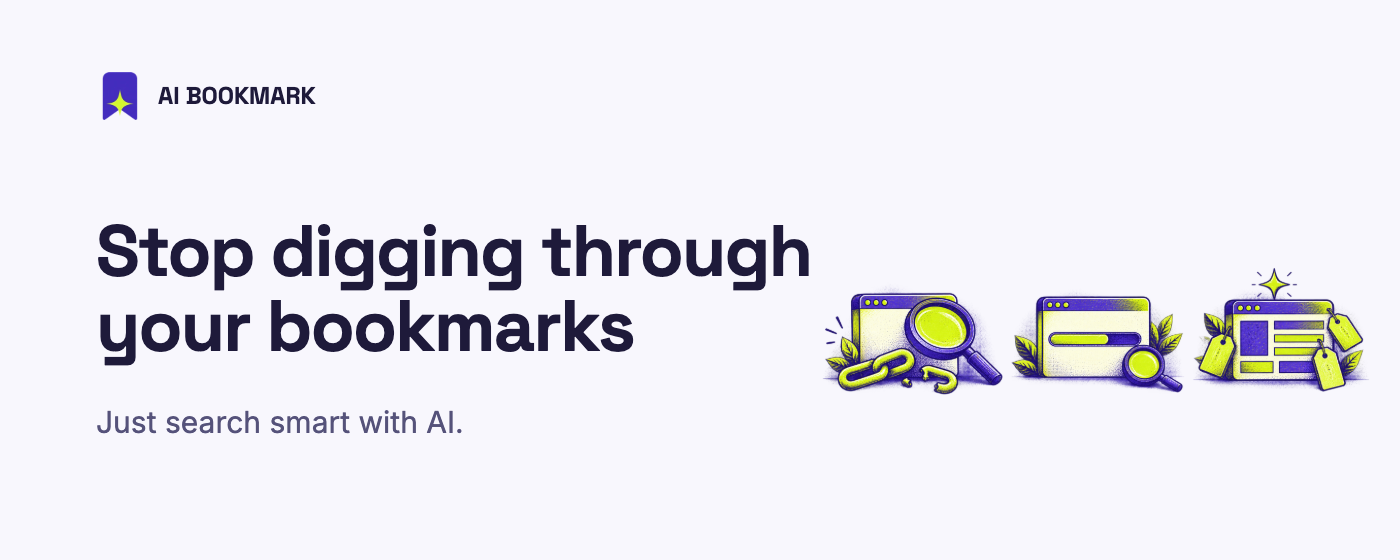
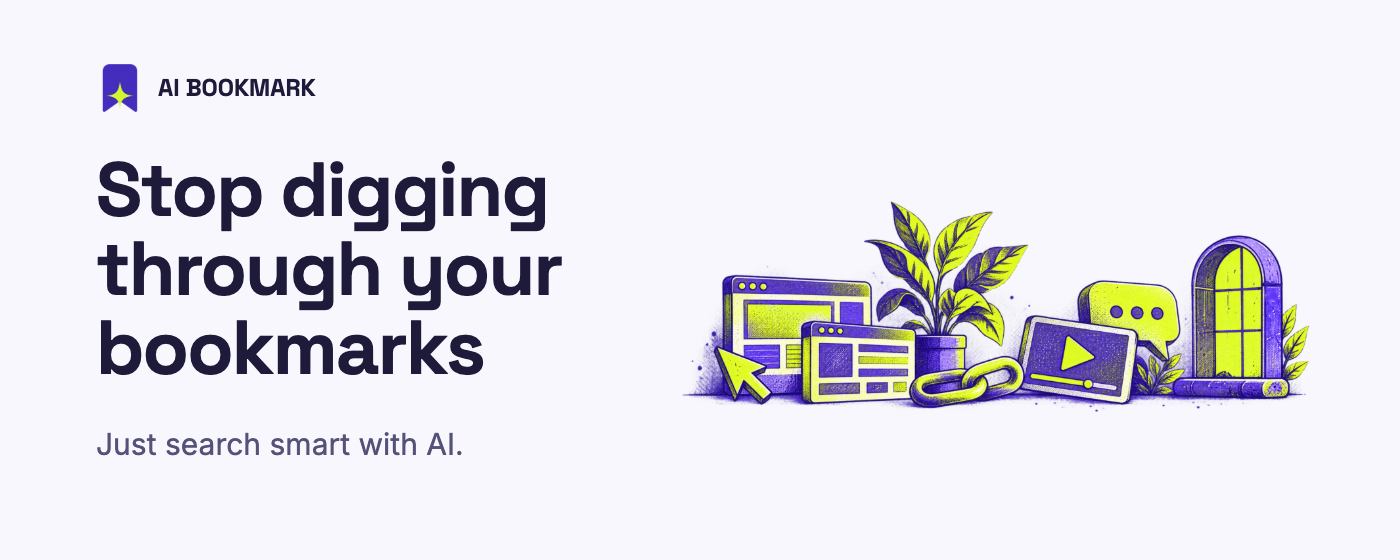
README rewrite in simple English; refreshed marquee and small promo images

Changed region(s): [[0.0614, 0.2732, 0.9829, 0.7286], [0.0614, 0.7286, 0.3379, 0.8196], [0.0614, 0.0911, 0.2457, 0.2125]]

diff --git a/README.md b/README.md
@@ -1,103 +1,125 @@
+<p align="center">
+  <img src="store/promo-marquee-1400x560.png" alt="AI Bookmark: stop digging through your bookmarks. Just search smart with AI." width="100%">
+</p>
+
 # AI Bookmark
 
-Stop digging through your bookmarks. Just search smart with AI. AI Bookmark uses Gemini to read the pages you save, so you can search by what a page is about, not only its title.
+**Stop digging through your bookmarks. Just search smart with AI.**
 
-It works in Chrome and in other Chromium browsers, for example Brave. It needs version 116 or later.
+You save many pages. After some time, you cannot find them. You nest your folders. You sort some of them, not all. You remember what a page was about. You do not remember its title or its folder.
 
-## What it does
+AI Bookmark is a Chrome extension for this problem. Gemini reads the pages you save. Then you search by what a page is about. Type "design inspiration". The extension shows the sites that fit. It does this when those words are not in the title.
 
-- **Search by meaning.** Type a question or a few words. The extension compares the meaning, not only the exact words.
-- **Index with Gemini.** Gemini reads each bookmark. It adds tags, a short summary and a collection.
-- **Collections.** The extension groups your bookmarks, for example Design, AI Tools and Development. A bookmark that fits no group goes to Others.
-- **Link details.** Open a bookmark to see its summary, collection and tags. Tap a row to change it. If Gemini cannot read a page, the summary says so. It does not guess.
-- **Side panel.** The panel stays open when you change tabs.
-- **Local first.** Your index stays on your device. Only the Gemini steps use the network.
+<p align="center">
+  <img src="store/screenshot-3-search.png" alt="Searching for design inspiration" width="70%">
+</p>
 
 ## Install
 
-You do not need a build step.
+The extension is not in the Chrome Web Store yet. Until it is, install it by hand. You do not need a build step.
 
 1. Download or clone this repository.
-2. Open `chrome://extensions`. In Brave, open `brave://extensions`.
-3. Turn on **Developer mode**.
-4. Click **Load unpacked**.
-5. Select the repository folder.
-6. Click the puzzle-piece icon. Pin **AI Bookmark**.
+2. Open the extensions page of your browser (`chrome://extensions`).
+3. Set **Developer mode** to on.
+4. Click **Load unpacked**. Select the repository folder.
+5. Open the puzzle-piece menu. Pin **AI Bookmark**.
+
+You need a Chromium browser, version 116 or later.
 
 ## First run
 
-1. Click the extension icon. The side panel opens.
+1. Click the icon. The side panel opens.
 2. Search for a word. Keyword search works at once, with no key.
-3. For meaning search, get a free key from [Google AI Studio](https://aistudio.google.com/apikey).
+3. For search by meaning, create a free key in [Google AI Studio](https://aistudio.google.com/apikey).
 4. Paste the key into the card on the Home screen. Click **Save**. Indexing starts at once.
-5. Watch the progress on the Home card. Open Settings for the same view.
+5. Read the progress on the Home card or in Settings. You can close the panel. Indexing continues in the background.
 
-You can close the panel while the extension indexes. The work continues in the background.
+<p align="center">
+  <img src="store/screenshot-1-add-a-key.png" alt="Adding a Gemini key" width="49%">
+  <img src="store/screenshot-2-indexing.png" alt="Indexing in the background" width="49%">
+</p>
 
 ## Use
 
-| Task | How |
+| Task | Action |
 | --- | --- |
-| Open the panel | Click the icon. Or press `Ctrl+Shift+K` (`Cmd+Shift+K` on Mac). |
+| Open the panel | Click the icon. Or press `Ctrl+Shift+K` (`Cmd+Shift+K` on a Mac). |
 | Search | Type in the search box. Press `Enter`. |
-| Move in results | Press the up or down arrow. Press `Enter` to open a link. |
-| Copy a link | Select a result. Press `Cmd+C` or `Ctrl+C`. |
-| See your collections | Click the layers icon. |
-| Index new bookmarks | The extension does it by itself. If you turn that off in Settings, Settings shows how many new bookmarks it found. Click **Sync now**. |
-| Export your bookmarks | Open Settings. Click **Export bookmarks**. The file is an HTML bookmarks file. |
-| Change a summary, collection or tags | Open the bookmark. Tap the row you want to change. |
-| Delete a bookmark | Open its details. Click the bin icon. Click **Undo** within seven seconds to restore it. |
+| Move in the results | Press the up or down arrow. Press `Enter` to open a link. |
+| Copy a link | Select a result. Press `Ctrl+C` or `Cmd+C`. |
+| Browse by collection | Click the layers icon. |
+| Change a summary, a collection or the tags | Open a bookmark. Tap the row. |
+| Delete a bookmark | Open it. Click the bin icon. Click **Undo** within seven seconds to restore it. |
+| Index new bookmarks | The extension does this by itself. You can switch it off in Settings. Then Settings shows how many new bookmarks it found. Click **Sync now**. |
+| Export | Open Settings. Click **Export bookmarks**. |
+| Clear the index | Open Settings. Click **Clear the index**. Your bookmarks stay. |
+
+<p align="center">
+  <img src="store/screenshot-4-collections.png" alt="Collections that the extension builds" width="49%">
+  <img src="store/screenshot-5-details.png" alt="A bookmark with its summary, collection and tags" width="49%">
+</p>
+
+## How it works
+
+1. **Index.** Gemini reads each page. It writes a summary, tags and a collection. The extension then makes a numeric search index from the title, the tags and the summary.
+2. **Search.** The extension first matches your query against the data on your device. A result shows at once. In parallel, it compares the meaning of your query with the index. Then it updates the list.
+3. **Pages it cannot read.** Some pages are web apps with no text, or they need a login. For these pages the extension stores no summary. It does not guess.
+4. **Local data.** The index stays in your browser. Without a key, the extension sends nothing. Keyword search and the automatic collections still work.
 
 ## Privacy
 
-The extension has no server of its own. It has no analytics.
+The extension has no server, no analytics and no advertising. The index and the API key stay in your browser.
 
 When you use Gemini, the extension sends this data to Google:
 
-- the title, address and folder name of each bookmark
-- your search text, including what you type before you press Enter
-- the tags and summary Gemini made, to build the search index
+- The title, the address and the folder of each bookmark. Gemini also reads the page.
+- The tags and the summary that Gemini wrote. They build the search index.
+- Your search text. This includes the text you type before you press `Enter`.
 
-Gemini can also read the pages at your bookmark addresses.
-
-Your API key stays in your browser. The extension sends it only to Google. Read [PRIVACY.md](PRIVACY.md) for the full policy.
+You can switch off automatic indexing. Then the extension sends no new bookmark until you click **Sync now**. Read [PRIVACY.md](PRIVACY.md) for the full policy.
 
 ## Permissions
 
 | Permission | Reason |
 | --- | --- |
-| `bookmarks` | Read your bookmarks. Restore one after you delete it. |
-| `storage` and `unlimitedStorage` | Keep the index on your device. |
+| `bookmarks` | Read your bookmarks. Restore a bookmark after you delete it. |
+| `storage`, `unlimitedStorage` | Keep the index on your device. |
 | `sidePanel` | Show the side panel. |
-| `favicon` | Show the site icon next to each bookmark. |
-| `generativelanguage.googleapis.com` | Call the Gemini API. |
+| `favicon` | Show the icon of each site. |
+| `generativelanguage.googleapis.com` | Call the Gemini API. The extension calls no other address. |
+
+## Limits
+
+- Search by meaning needs a Gemini key. The free tier has rate limits. A large library can need several minutes to index.
+- A page that needs a login, or that builds its content with scripts, often cannot be read. It gets a title and a collection. It gets no summary.
+- Each browser profile keeps its own index. The index does not sync between devices.
 
 ## Project files
 
 ```
 ├── manifest.json          # Extension settings
-├── background.js          # Indexes, searches and calls Gemini
+├── background.js          # Indexing, search and the Gemini calls
 ├── popup.html             # Side panel page
-├── popup.js               # Side panel logic
-├── popup.css              # Side panel styles and design tokens
+├── popup.js               # Side panel interface
+├── popup.css              # Styles and design tokens
 ├── assets/                # Pictures and collection badges
 ├── fonts/                 # Inter, Space Grotesk, JetBrains Mono
 ├── icons/                 # Extension icons
 ├── store/                 # Store screenshots and promo images
 ├── DESIGN.md              # Design rules
 ├── PRIVACY.md             # Privacy policy
-├── CHROME_WEB_STORE.md    # Everything needed for the store page
+├── CHROME_WEB_STORE.md    # Text and steps for the store listing
 └── LICENSE                # MIT
 ```
 
 ## Develop
 
-There are no dependencies. Edit a file. Open the extensions page. Click the reload icon on the extension card.
+The project has no dependencies. Edit a file. Open the extensions page. Click the reload icon on the extension card.
 
-To test as a new user, uninstall the extension and load it again. The browser deletes its saved data.
+To test as a new user, uninstall the extension. Install it again. The browser deletes the saved data.
 
-Follow `DESIGN.md` for all interface work. Use the size, space and colour tokens at the top of `popup.css`.
+Follow [DESIGN.md](DESIGN.md) for interface work. Use the tokens at the top of `popup.css`.
 
 ## Licence
 
-MIT. See `LICENSE`.
+MIT. See [LICENSE](LICENSE).
